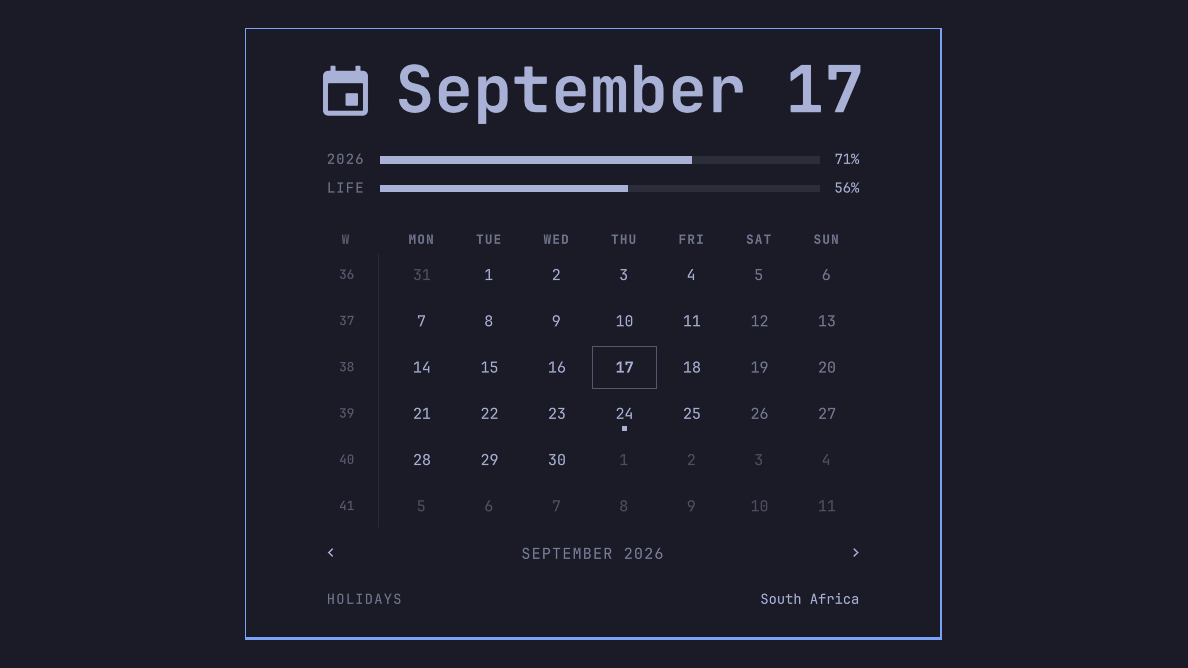
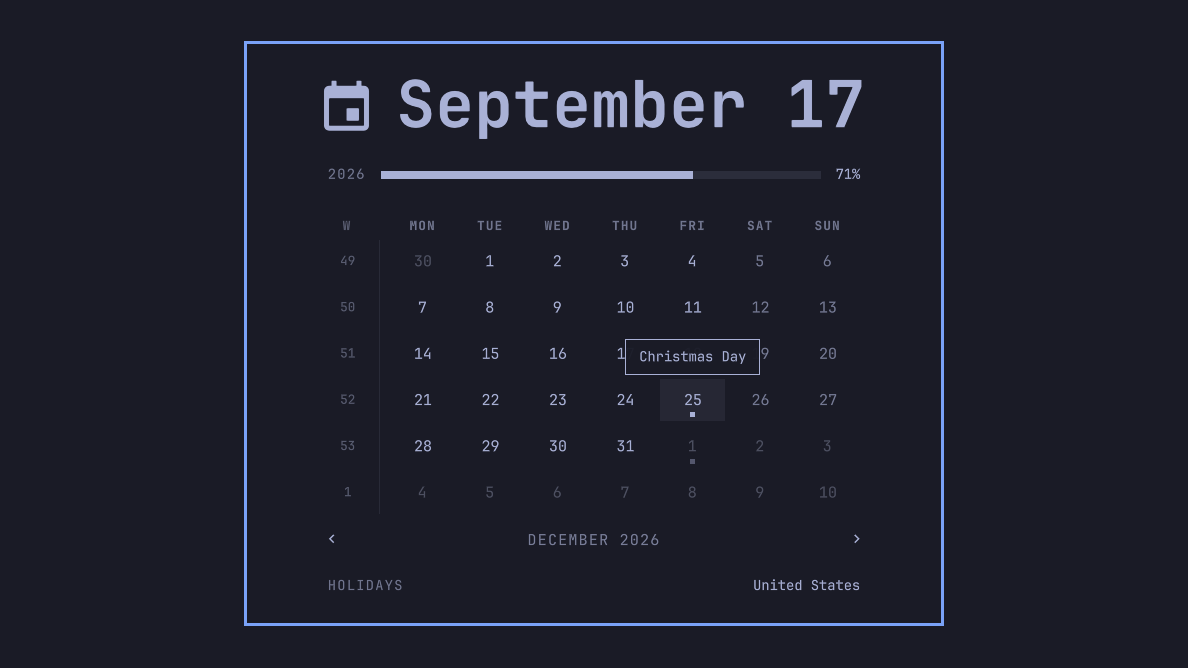
December preview with the Christmas Day tooltip
The preview now shows December 2026 for the United States with the
pointer on the 25th, so the marker, the hover fill and the holiday's
name are all visible in one frame. The development notes say how the
hover was captured.

diff --git a/docs/development.md b/docs/development.md
@@ -61,3 +61,10 @@ magick full.png -crop <w>x<h>+<x>+<y> +repage inner.png
 bg=$(magick inner.png -format '%[pixel:p{80,300}]' info:)
 magick inner.png -background "$bg" -gravity center -extent 1188x668 -strip preview.png
 ```
+
+The shipped preview shows December with the United States picked and the
+pointer on the 25th, so the dot, the hover fill and the tooltip are all in
+one frame. `hyprctl dispatch movecursor` did not move the pointer under
+this Hyprland, so the hover was done by hand while `grim` captured a frame
+every second; the frame that differed most from the first inside the popup
+box was the one with the tooltip.
